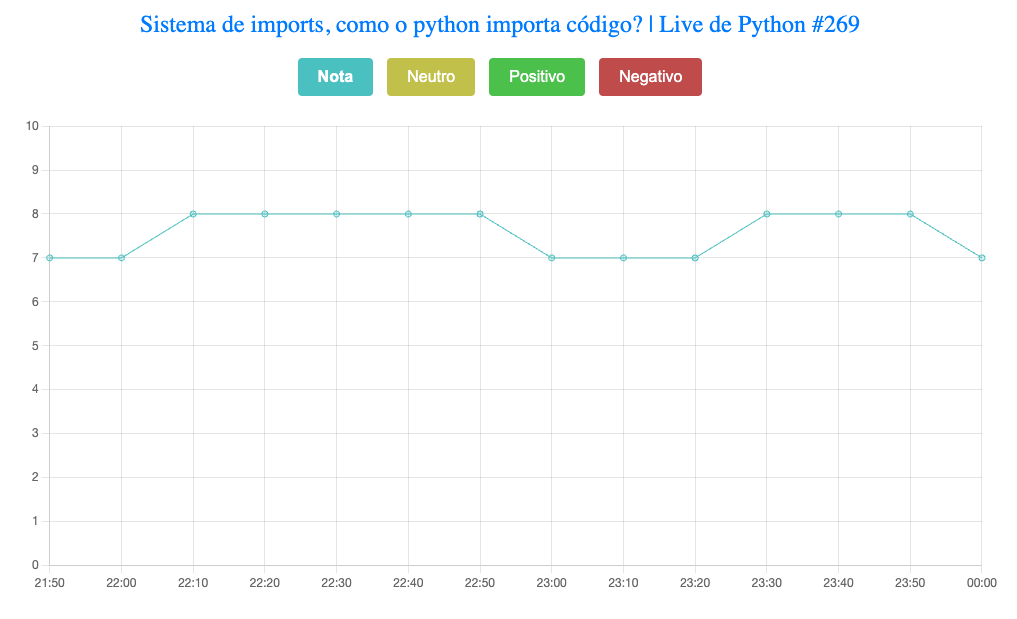
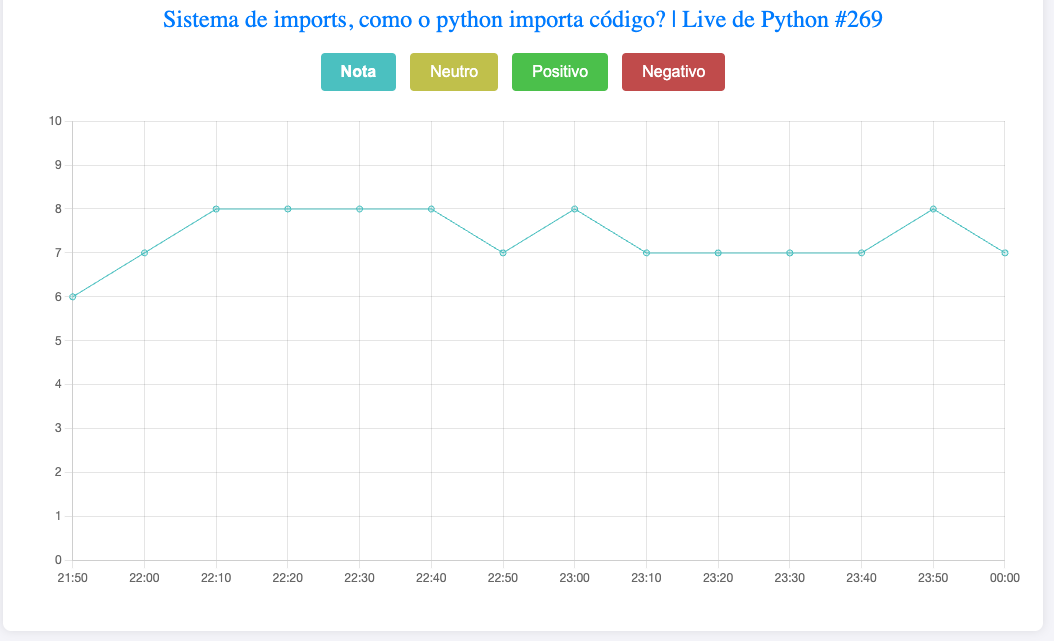
changing readme on youtube live insights

diff --git a/projects/youtube-live-insights-with-sentiment-analysis/infra/services/dynamodb.py b/projects/youtube-live-insights-with-sentiment-analysis/infra/services/dynamodb.py
@@ -19,17 +19,13 @@ class DynamoDB:
             "ChatsTable",
             context.resources["arns"]["chats_table_arn"],
         )
-
-        self.transcriptions_table = dynamodb.Table(
+        
+        self.transcriptions_table = dynamodb.Table.from_table_arn(
             scope,
             "TranscriptionsTable",
-            table_name=f"{context.stage}-{context.name}-Live-Transcriptions",
-            partition_key=dynamodb.Attribute(
-                name="PK", type=dynamodb.AttributeType.STRING
-            ),
-            sort_key=dynamodb.Attribute(name="SK", type=dynamodb.AttributeType.STRING),
-            stream=dynamodb.StreamViewType.NEW_AND_OLD_IMAGES,
+            "arn:aws:dynamodb:us-east-2:211125768252:table/Prod-Live-Insights-Live-Transcriptions",
         )
+
 
     @trigger(service="dynamodb", trigger="table", function="function")
     def create_trigger(self, table: str, function: lambda_.Function) -> None:

diff --git a/docs/demo/functions/hello_world/main.py b/docs/demo/functions/hello_world/main.py
@@ -16,6 +16,6 @@ def lambda_handler(event, context):
 
     return {
         "statusCode": 200,
-        "body": json.dumps({"message": "Hello World!"}),
+        "body": json.dumps({"message": "hello my friend!"}),
         "headers": {"Access-Control-Allow-Origin": "*"},
     }

diff --git a/projects/youtube-live-insights-with-sentiment-analysis/functions/download/get_chat/utils.py b/projects/youtube-live-insights-with-sentiment-analysis/functions/download/get_chat/utils.py
@@ -31,7 +31,6 @@ def process_and_save_chat(chat, video_id, table):
             "PK": video_id,
             "SK": sk,
             "message": message["message"],
-            "author": message["author"],
         }
 
         items_to_write.append(item)

diff --git a/projects/youtube-live-insights-with-sentiment-analysis/README.md b/projects/youtube-live-insights-with-sentiment-analysis/README.md
@@ -25,8 +25,8 @@ This command provides a visual representation of the entire system's structure, 
 
 The project includes comprehensive documentation for all available endpoints, ensuring ease of use and clarity for developers. This documentation is accessible via Swagger and Redoc interfaces, both automatically generated by Lambda Forge. It includes detailed descriptions, request and response formats, and examples for each endpoint, providing developers with clear and concise information.
 
-- [Swagger](https://8haasqop5b.execute-api.us-east-2.amazonaws.com/prod/swagger)
-- [Redoc](https://8haasqop5b.execute-api.us-east-2.amazonaws.com/prod/redoc)
+- [Swagger](https://9knrlssq2m.execute-api.us-east-2.amazonaws.com/prod/swagger)
+- [Redoc](https://9knrlssq2m.execute-api.us-east-2.amazonaws.com/prod/redoc)
 
 
 # Live Stream Analysys
@@ -55,67 +55,11 @@ Mano Deyvin is a Brazilian Youtuber that talks about tech stuff. His channel is 
 
 <div align="center">
 
-[https://8haasqop5b.execute-api.us-east-2.amazonaws.com/prod/chart?video_id=f498ab20-4929-4f89-a4b3-a400fc7c4d82](https://8haasqop5b.execute-api.us-east-2.amazonaws.com/prod/chart?video_id=f498ab20-4929-4f89-a4b3-a400fc7c4d82)
+[https://9knrlssq2m.execute-api.us-east-2.amazonaws.com/prod/chart?video_id=01973ca7-af3c-45e1-8777-74049fe02f29](https://9knrlssq2m.execute-api.us-east-2.amazonaws.com/prod/chart?video_id=01973ca7-af3c-45e1-8777-74049fe02f29)
 
 <img height="700" alt="Lambda Forge's Logo" src="assets/mano-deyvin-analysis.png">
 
 </div>
-
-## Lucas Montano
-
-Lucas Montano is a Brazilian Youtuber that talks about the tech market in general.
-
-<div align="center">
-
-[🚨🚨 BOLHA TECH (feat Galego) #006 🚨🚨](https://www.youtube.com/watch?v=1nQRYmLgon4)
-
-<img height="750" src="https://img.youtube.com/vi/1nQRYmLgon4/maxresdefault.jpg">
-
-</div>
-
-The prompt used to generate the analysis was:
-
-```
-Lucas Montano is a Brazilian Youtuber that talk about the tech market in general. In this video he is focusing on the tech market with AI.
-```
-
-You can access the chat interaction analysis via the link below.
-
-<div align="center">
-
-[https://8haasqop5b.execute-api.us-east-2.amazonaws.com/prod/chart?video_id=967e823f-3c24-4f2c-9fde-00932fa09fd6](https://8haasqop5b.execute-api.us-east-2.amazonaws.com/prod/chart?video_id=967e823f-3c24-4f2c-9fde-00932fa09fd6)
-
-![alt text](assets/lucas-montano-analysis.png)
-</div>
-
-
-## Fernanda Kipper
-
-In the video below, Fernanda Kipper teaches how to recreate the Medium with Angular from scratch.
-
-<div align="center">
-
-[CRIANDO UM BLOG DO ZERO USANDO ANGULAR + ONE ENTRY CMS](https://www.youtube.com/watch?v=9HQiTFZz0Gg)
-
-<img height="750" src="https://img.youtube.com/vi/9HQiTFZz0Gg/maxresdefault.jpg">
-
-</div>
-
-The prompt used to create the chart was:
-
-```
-Fernanda Kipper is a Brazilian YouTuber who runs a channel dedicated to teaching various frameworks and programming languages. She also conducts live coding sessions. In this particular live stream, she teaches how to recreate the Medium with Angular.
-```
-
-The analysis for the chat interactions can be found in the link below.
-
-<div align="center">
-
-[https://8haasqop5b.execute-api.us-east-2.amazonaws.com/prod/chart?video_id=973e44cb-4fc2-43b2-b4d5-5056586714db](https://8haasqop5b.execute-api.us-east-2.amazonaws.com/prod/chart?video_id=973e44cb-4fc2-43b2-b4d5-5056586714db)
-
-![alt text](assets/fernanda-kipper-analysis.png)
-</div>
-
 
 ## Eduardo Mendes
 
@@ -139,7 +83,7 @@ The analysis for the chat interactions can be found in the link below.
 
 <div align="center">
 
-[https://8haasqop5b.execute-api.us-east-2.amazonaws.com/prod/chart?video_id=0c103613-01bd-4363-89e3-094b94f3353c](https://8haasqop5b.execute-api.us-east-2.amazonaws.com/prod/chart?video_id=0c103613-01bd-4363-89e3-094b94f3353c)
+[https://9knrlssq2m.execute-api.us-east-2.amazonaws.com/prod/chart?video_id=cb2059e9-6e19-4d6e-8459-963b972c09d2](https://9knrlssq2m.execute-api.us-east-2.amazonaws.com/prod/chart?video_id=cb2059e9-6e19-4d6e-8459-963b972c09d2)
 
 ![alt text](assets/eduardo-mendes-analysis.png)
 
